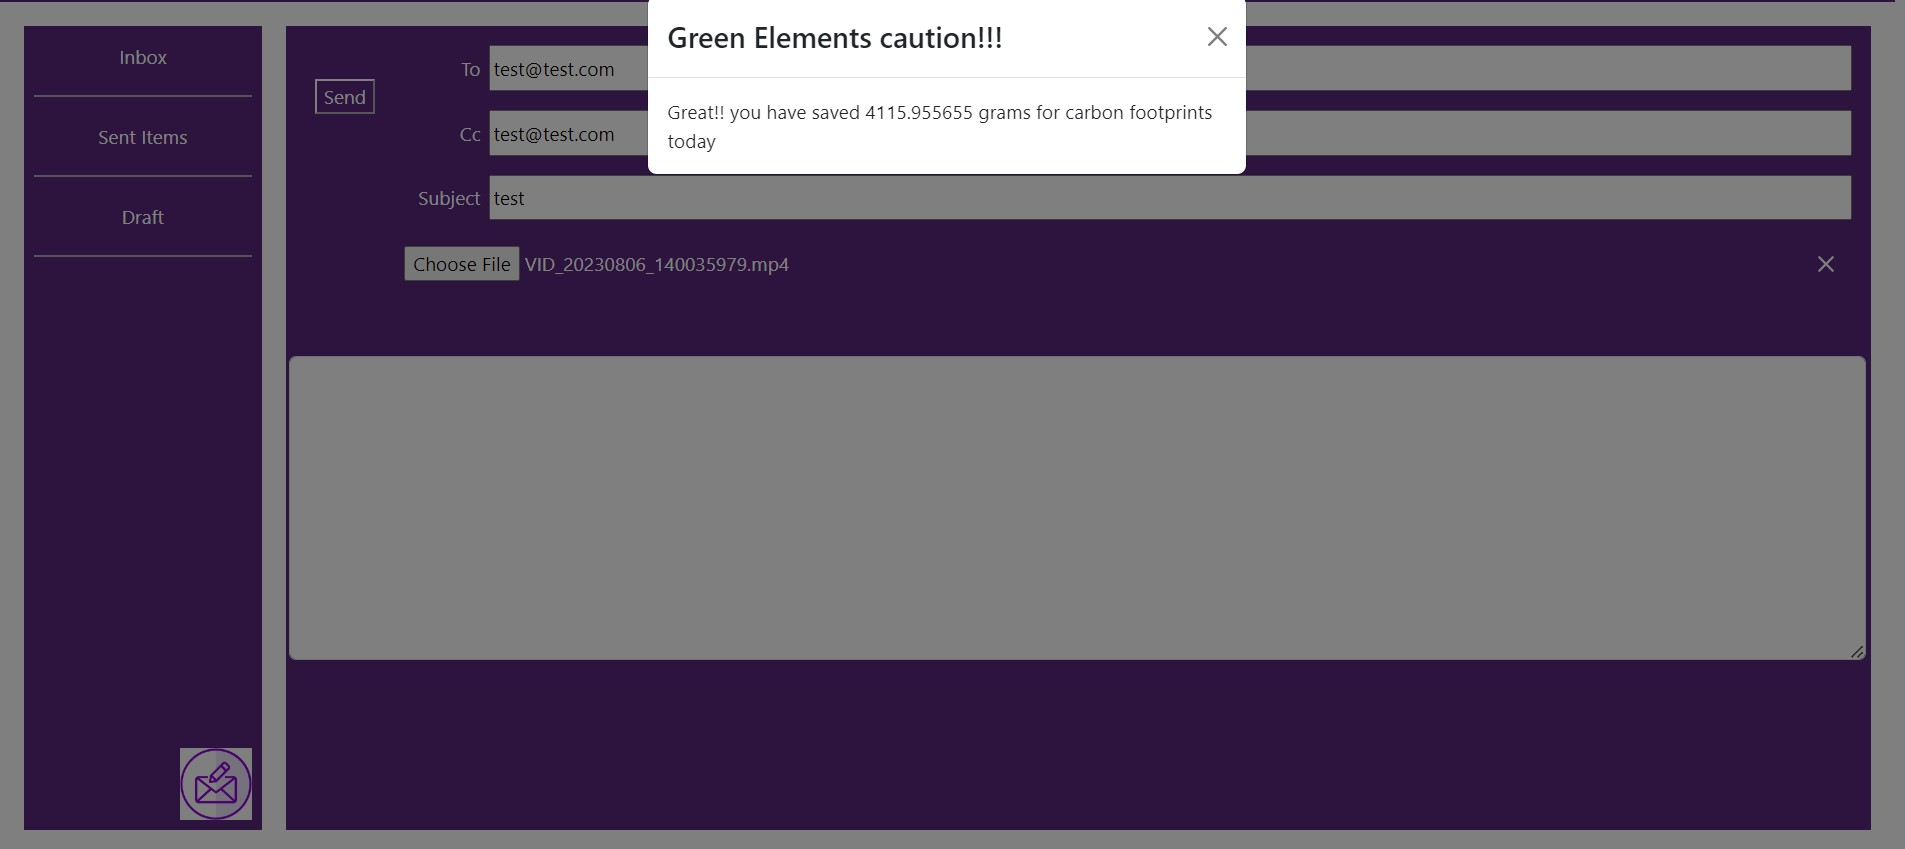
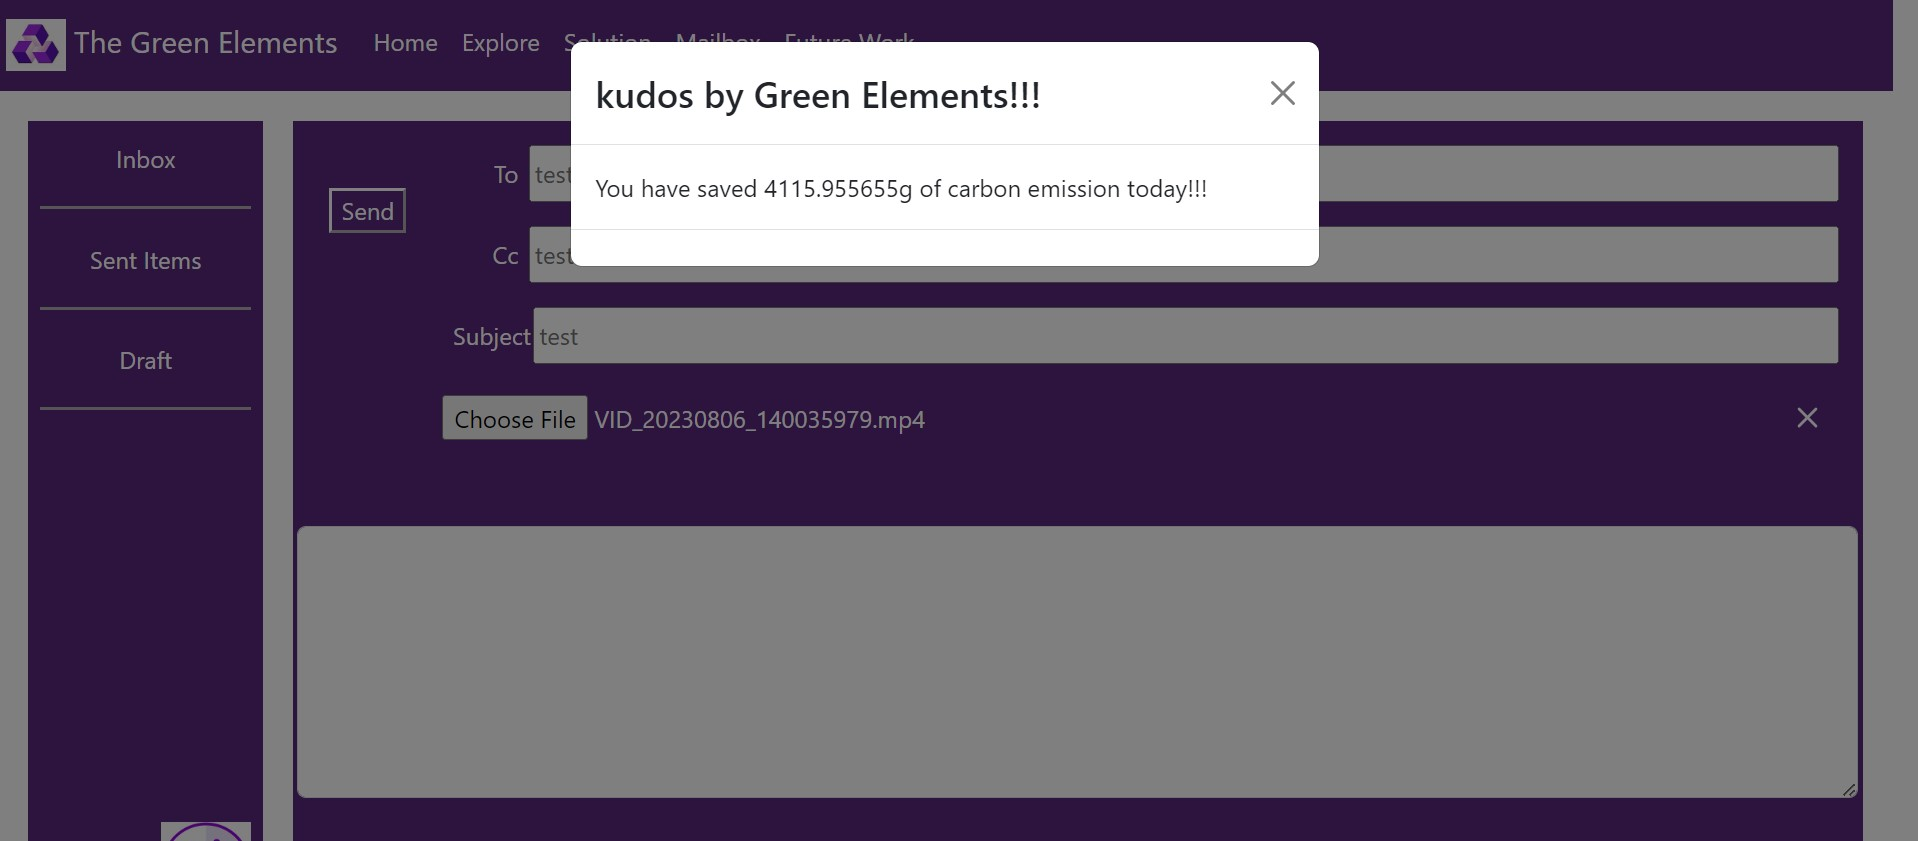
update

diff --git a/src/FutureWork.js b/src/FutureWork.js
@@ -1,28 +1,73 @@
-import React from 'react'
+import React, { useState } from 'react'
 import Container from 'react-bootstrap/Container';
 import Row from 'react-bootstrap/Row';
 import Col from 'react-bootstrap/Col';
 
-import futurework1 from './images/futurework1.jpg'
+import futurework1 from './images/futurework1.jpg';
+import futurework2_1 from './images/futurework2_1.jpg'
+import futurework2_2 from './images/futurework2_2.jpg'
 
 const FutureWork = () => {
+    const [v1, setV1] = useState(1)
+    const [v2, setV2] = useState(0)
+    const [v3, setV3] = useState(0)
+
+
+    const showV1 = () => {
+        setV1(1)
+        setV2(0)
+        setV3(0)
+    }
+    const showV2 = () => {
+        setV1(0)
+        setV2(1)
+        setV3(0)
+    }
+    const showV3 = () => {
+        setV1(0)
+        setV2(0)
+        setV3(1)
+    }
+
     return (
         <div>
-             <Container>
-            <Row className="justify-content-md-center" style={{textAlign:"left",backgroundColor:'#5a287d',padding:"10px",marginTop:"30px",color:"white"}}>
-                <ul>
-                    <li> Most of the files/documents we are sharing within organisation to our colleagues.
-                    </li>
-                    <li> Whenever collaboration is required between teams or departments or division within our organization, always use respective document’s Confluence or SharePoint/OneDrive/Teams-Channel-Files links so that versions of the file can be maintained, duplicates of the files can be avoided, and further, we can securely share the files.
-                    </li>
-                </ul>
-            </Row>
-            <Row className="justify-content-md-center" style={{marginTop:"30px"}}>
-            <img  src={futurework1} alt="addons"></img>
-            </Row>
+            <Container>
+                <Row className="justify-content-md-center" style={{ textAlign: "center", backgroundColor: '#5a287d', padding: "10px", marginTop: "30px", color: "white" }}>
+                    <table>
+                        <tr>
+                            <td onClick={showV1}>Green elements 2.0</td>
+                            <td onClick={showV2}>Green elements 2.1</td>
+                            <td onClick={showV3}>Green elements 2.2</td>
+                        </tr>
+                    </table>
+                </Row>
+                {v1 ? <span><Row className="justify-content-md-center" style={{ textAlign: "left", backgroundColor: '#5a287d', padding: "10px", marginTop: "30px", color: "white" }}>
+                    <ul>
+                        <li> Most of the files/documents we are sharing within organisation to our colleagues.
+                        </li>
+                        <li> Whenever collaboration is required between teams or departments or division within our organization, always use respective document’s Confluence or SharePoint/OneDrive/Teams-Channel-Files links so that versions of the file can be maintained, duplicates of the files can be avoided, and further, we can securely share the files.
+                        </li>
+                    </ul>
+                </Row>
+                    <Row className="justify-content-md-center" style={{ marginTop: "30px" }}>
+                        <img src={futurework1} alt="addons"></img>
+                    </Row></span> : ""}
+                {v2 ? <span><Row className="justify-content-md-center" style={{ textAlign: "left", backgroundColor: '#5a287d', padding: "10px", marginTop: "30px", color: "white" }}>
+                    <ul>
+                        <li> Most of the files/documents we are sharing within organisation to our colleagues.
+                        </li>
+                        <li> Whenever collaboration is required between teams or departments or division within our organization, always use respective document’s Confluence or SharePoint/OneDrive/Teams-Channel-Files links so that versions of the file can be maintained, duplicates of the files can be avoided, and further, we can securely share the files.
+                        </li>
+                    </ul>
+                </Row>
+                    <Row className="justify-content-md-center" style={{ marginTop: "30px" }}>
+                        <Col><img src={futurework2_1} width={525} alt="addons"></img> </Col>
+                        <Col><img src={futurework2_2} width={525} alt="addons"></img> </Col>
+                        {/* <img src={futurework2} alt="addons"></img> */}
+                    </Row></span> : ""}
             </Container>
-               
-            
+
+
         </div>
     )
 }

diff --git a/src/Solution.js b/src/Solution.js
@@ -4,37 +4,28 @@ import Container from 'react-bootstrap/Container';
 import Row from 'react-bootstrap/Row';
 import Col from 'react-bootstrap/Col';
 import Collaborative from './Collaborative.PNG';
-import addons from './addons.png'
+import addons from './addons.png';
+import outlook1 from './images/outlook1.png';
+import footprint1_icon from './images/footprint1_icon.png';
 
 const Solution = () => {
   return (
     <Container>
-      <Row className="justify-content-md-center" style={{marginTop:"30px"}}>
-            <img  src={Collaborative} height={250} alt="addons"></img>
-            </Row>
-            <Row className="justify-content-md-center" style={{textAlign:"left",backgroundColor:'#5a287d',padding:"10px",marginTop:"30px",color:"white"}}>
-                <ul>
-                    <li> Most of the files/documents we are sharing within organisation to our colleagues.
-                    </li>
-                    <li> Whenever collaboration is required between teams or departments or division within our organization, always use respective document’s Confluence or SharePoint/OneDrive/Teams-Channel-Files links so that versions of the file can be maintained, duplicates of the files can be avoided, and further, we can securely share the files.
-                    </li>
-                </ul>
-            </Row>
-            <Row className="justify-content-md-center" style={{marginTop:"30px"}}>
-            <img  src={addons} alt="addons"></img>
-            </Row>
-            </Container>
-    // <div><img src={Collaborative} alt="collaborative"></img>
-    // <div className='soln'>
-    // <ul>
-    // <li> Most of the files/documents we are sharing within organisation to our colleagues.
-    // </li> 
-    // <li>Whenever collaboration is required between teams or departments or division within our organization, always use respective document’s Confluence or SharePoint/OneDrive/Teams-Channel-Files links so that versions of the file can be maintained, duplicates of the files can be avoided, and further, we can securely share the files.
-    // </li>
-    // </ul>
-    // </div>
-    // <img src={addons} alt="addons"></img>
-    // </div>
+      <Row className="justify-content-md-center" style={{ marginTop: "30px" }}>
+        <img src={Collaborative} height={250} alt="addons"></img>
+      </Row>
+      <Row className="justify-content-md-center" style={{ textAlign: "left", backgroundColor: '#5a287d', padding: "10px", marginTop: "20px", color: "white" }}>
+        <ul>
+          <li> Most of the files/documents we are sharing within organisation to our colleagues.
+          </li>
+          <li> Whenever collaboration is required between teams or departments or division within our organization, always use respective document’s Confluence or SharePoint/OneDrive/Teams-Channel-Files links so that versions of the file can be maintained, duplicates of the files can be avoided, and further, we can securely share the files.
+          </li>
+        </ul>
+      </Row>
+      <Row className="justify-content-md-center" style={{ marginTop: "20px", marginBottom: "10px" }}>
+        <img src={outlook1} alt="addons"></img>
+      </Row>
+    </Container>
   )
 }
 

diff --git a/src/Compose.js b/src/Compose.js
@@ -59,13 +59,14 @@ const Compose = () => {
         <div class='d-flex flex-column'>
             {size > 0 ? <Modal  show={show} onHide={handleClose} class="d-flex align-items-center">
                 <Modal.Header closeButton>
-                    <Modal.Title>Green Elements caution!!!</Modal.Title>
+                    <Modal.Title>kudos by Green Elements!!!</Modal.Title>
                 </Modal.Header>
                 <Modal.Body>The file attached will leave {size} grams of carbon footprint!!  Please share confluence link or shared drive link to avoid this!!!</Modal.Body>
                 
                 <Modal.Footer>
                     <button type="button" className='popup_button' onClick={handleClose}>Close</button> 
-                    <button type="button" className='popup_button' onClick={handleCloseWithFile}>Send anyway</button> 
+                    <button type="button" className='popup_button' onClick={handleCloseWithFile}>Send Anyway</button> 
+                
                 </Modal.Footer></Modal>
                         : ""}
             
@@ -78,15 +79,15 @@ const Compose = () => {
                 <div class='d-flex w-100 flex-column'>
                     <div class="p-2 d-flex flex-row  justify-content-start">
                         <label className='label_mail' >To</label>
-                        <input type="text" ref={to}  style={{ width: "100%" }}></input>
+                        <input type="text" ref={to}  placeholder='test@test.com' style={{ width: "100%" }}></input>
                     </div>
                     <div class="p-2 d-flex flex-row justify-content-start">
                         <label className='label_mail' >Cc</label>
-                        <input type="text" ref={cc}  style={{ width: "100%" }}></input>
+                        <input type="text" ref={cc}  placeholder='test@test.com' style={{ width: "100%" }}></input>
                     </div>
                     <div class="p-2 d-flex flex-row justify-content-start">
-                        <label className='label_mail'> Subject</label>
-                        <input type="text" ref={subject} style={{ width: "100%" }}></input>
+                        <label className='label_mail' > Subject</label>
+                        <input type="text" ref={subject} placeholder='test' style={{ width: "100%" }}></input>
                     </div>
                     <div class="p-2 d-flex flex-row justify-content-start">
                         <input ref={inputRef} type="file" className='button_mail' name="file" onChange={changeHandler} />
@@ -101,7 +102,7 @@ const Compose = () => {
                 </div>
             </div>
             <div>
-                <textarea class="form-control" id="exampleFormControlTextarea1" rows="10" style={{ marginTop: '2%', marginLeft: '0.2%', marginRight: '0.2%', width: '99.5%' }}></textarea>
+                <textarea class="form-control" id="exampleFormControlTextarea1" rows="7" style={{ marginTop: '2%', marginLeft: '0.2%', marginRight: '0.2%', width: '99.5%' }}></textarea>
             </div>
         </div>
     )

diff --git a/src/App.js b/src/App.js
@@ -9,6 +9,8 @@ import Mailbox from './Mailbox';
 import Quiz from './Quiz';
 import { BrowserRouter , Routes, Route} from 'react-router-dom';
 import FutureWork from './FutureWork';
+import logo1 from './images/logo1.jpg'
+import PPT from './PPT';
 
 
 function App() {
@@ -34,7 +36,7 @@ function App() {
       </header> */}
     <Navbar collapseOnSelect expand="lg" style={{ background:"#5a287d"}}>
       <Nav>
-      <Navbar.Brand style={{ color: 'white'}}>The Green Elements</Navbar.Brand>
+      <Navbar.Brand style={{ color: 'white'}}><span><img src={logo1} width={40} height={35} style={{marginLeft:"5px"}}></img> The Green Elements</span></Navbar.Brand>
             <Nav.Link href="/home" style={{ color: 'white'}}>Home</Nav.Link>
             <Nav.Link eventKey={2}  href="/explore" style={{ color: 'white'}}>
               Explore
@@ -48,6 +50,9 @@ function App() {
             <Nav.Link eventKey={2}  href="/futureWork" style={{ color: 'white'}}>
               Future Work
             </Nav.Link>
+            <Nav.Link eventKey={2}  href="/ppt" style={{ color: 'white'}}>
+              PPT
+            </Nav.Link>
           </Nav>
           </Navbar>
           <div>
@@ -59,7 +64,8 @@ function App() {
         <Route path="/explore" element={<Explore />} />
         <Route path="/mailbox" element={<Mailbox />} />
         <Route path="/quiz" element={<Quiz />} /> 
-        <Route path="/futureWork" element={<FutureWork />} />    
+        <Route path="/futureWork" element={<FutureWork />} />  
+        <Route path="/ppt" element={<PPT />} />   
       </Routes>
     </BrowserRouter>
     </div>

diff --git a/src/Explore.js b/src/Explore.js
@@ -30,12 +30,12 @@ const Explore = () => {
                     <div class="d-flex justify-content-lg-start align-items-center">
                         <img src={one} height={250} width={250}></img>
                         <button class="align-self-center" style={{ backgroundColor: "#5a287d", color: "white" }} onClick={display_2}>Send</button>
-                        <br/><div style={{ padding: '20px', marginLeft: "120px" }}><img src={mail_data} ></img></div>
+                        <br/><div style={{ padding: '20px', marginLeft: "70px" }}><img src={mail_data} width={800}></img></div>
                     </div>
                     <div class="d-flex justify-content-lg-start ">
                         {showtwo ? <img src={two} height={250} width={250} style={{marginLeft:"5px"}}></img> :""}
                         {showtwo ? <button class="align-self-center" style={{ backgroundColor: "#5a287d", color: "white" }} onClick={display_3}>leave seen</button>:""}
-                        {showtwo ? <div style={{ padding: '20px', marginLeft: "100px" }}><img src={mail_data_2} ></img></div>: ""}
+                        {showtwo ? <div style={{ padding: '20px', marginLeft: "50px" }}><img src={mail_data_2}  width={800}></img></div>: ""}
                     </div>
                     <div class="d-flex justify-content-lg-start" style={{marginTop:"10px",marginBottom:"60px"}}>
                         {showthree ? <img src={three} height={250} width={250}></img>:""}

diff --git a/src/PPT.js b/src/PPT.js
@@ -1,0 +1,33 @@
+import React from 'react'
+import Carousel from 'react-bootstrap/Carousel';
+import CarouselItem from 'react-bootstrap/CarouselItem';
+import CarouselCaption from 'react-bootstrap/CarouselCaption';
+import Row from 'react-bootstrap/Row';
+
+
+const PPT = () => {
+  return (
+    <Row className="justify-content-md-center" style={{ marginTop: "20px" }}>
+    <Carousel slide={false} style={{backgroundColor:"#5a287d",color:"white",height:"80vh"}}>
+      <CarouselItem>
+        <div style={{marginTop:"20px"}}> test1</div>
+        <div style={{marginTop:"20%"}}>item</div>
+      </CarouselItem>
+      <CarouselItem>
+      <div style={{marginTop:"20px"}}> test2</div>
+        <div style={{marginTop:"20%"}}>item</div>
+      </CarouselItem>
+      <CarouselItem>
+        <div style={{marginTop:"20px"}}> test3</div>
+        <div style={{marginTop:"20%"}}>item</div>
+      </CarouselItem>
+      <CarouselItem>
+      <div style={{marginTop:"20px"}}> test4</div>
+        <div style={{marginTop:"20%"}}>item</div>
+      </CarouselItem>
+    </Carousel>
+    </Row>
+  )
+}
+
+export default PPT

diff --git a/src/App.css b/src/App.css
@@ -141,6 +141,27 @@
   border: 1px solid #999;
   overflow: auto;
 }
+.popup-box-icon {
+  position: fixed;
+  /* background: #00000050; */
+  top: 0;
+  /* width: 100%;
+  height: 100vh; */
+  left: 0;
+}
+
+.box-icon {
+  position: relative;
+  margin: 0 auto;
+  margin-top: calc(187vh - 80vh - 120px);
+  margin-left: 89%;
+  background: #fff;
+  border-radius: 4px;
+  /* padding: 20px; */
+  border: 1px solid #999;
+  /* overflow: auto; */
+  width: 10px;
+}
 
 
 @keyframes App-logo-spin {
